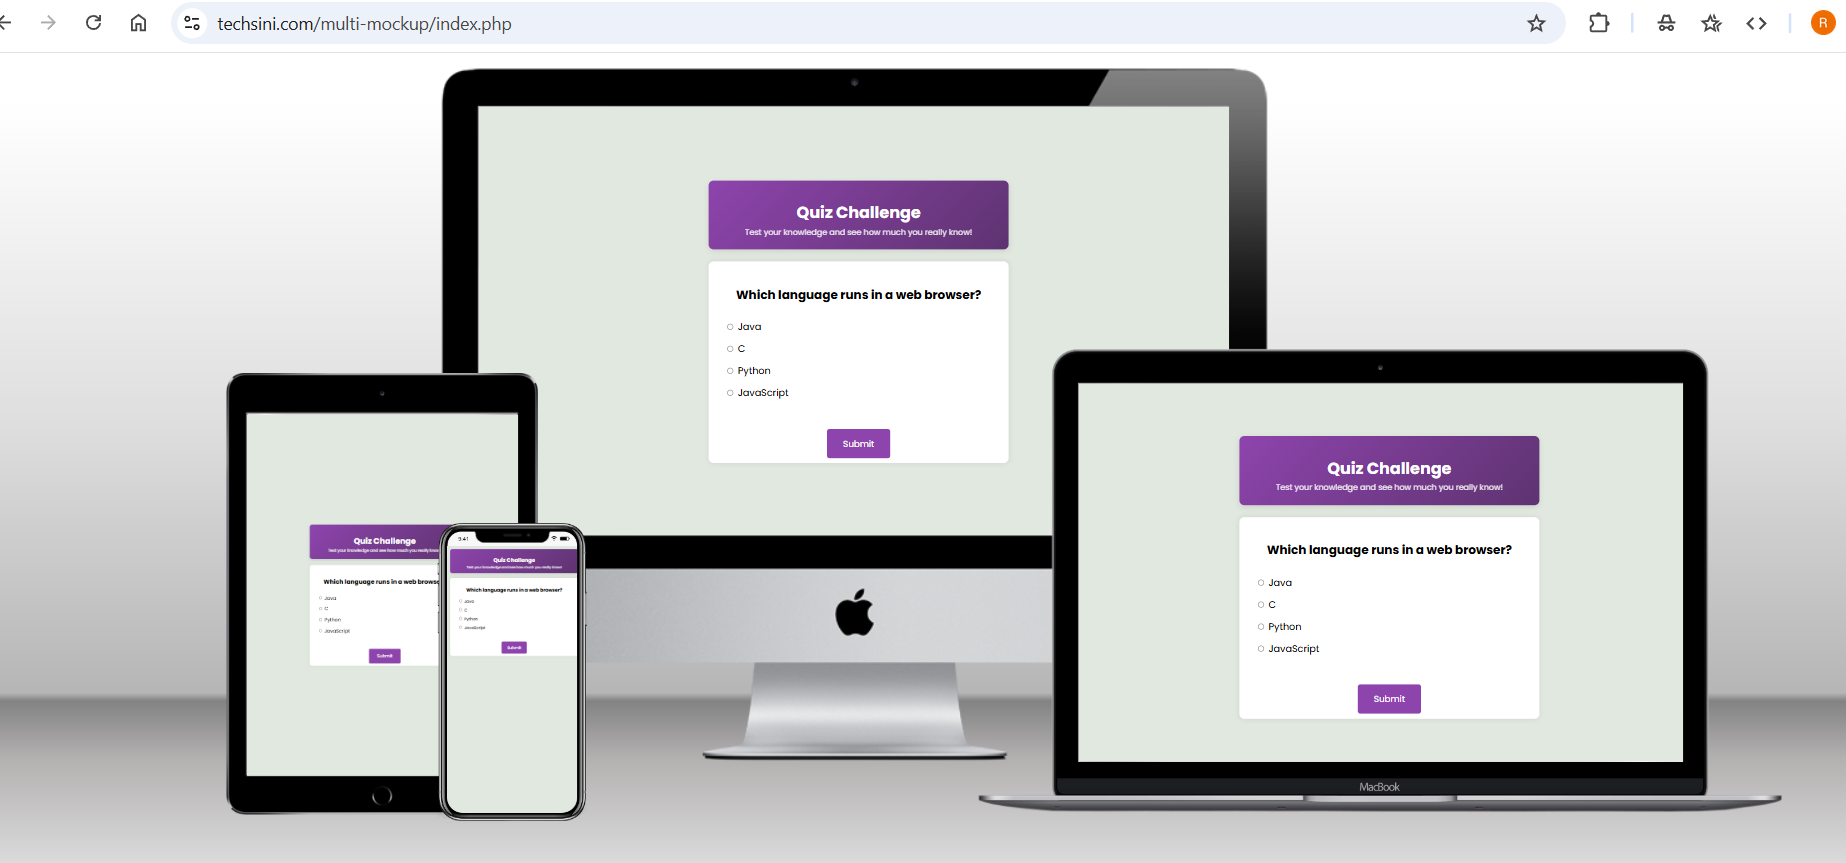
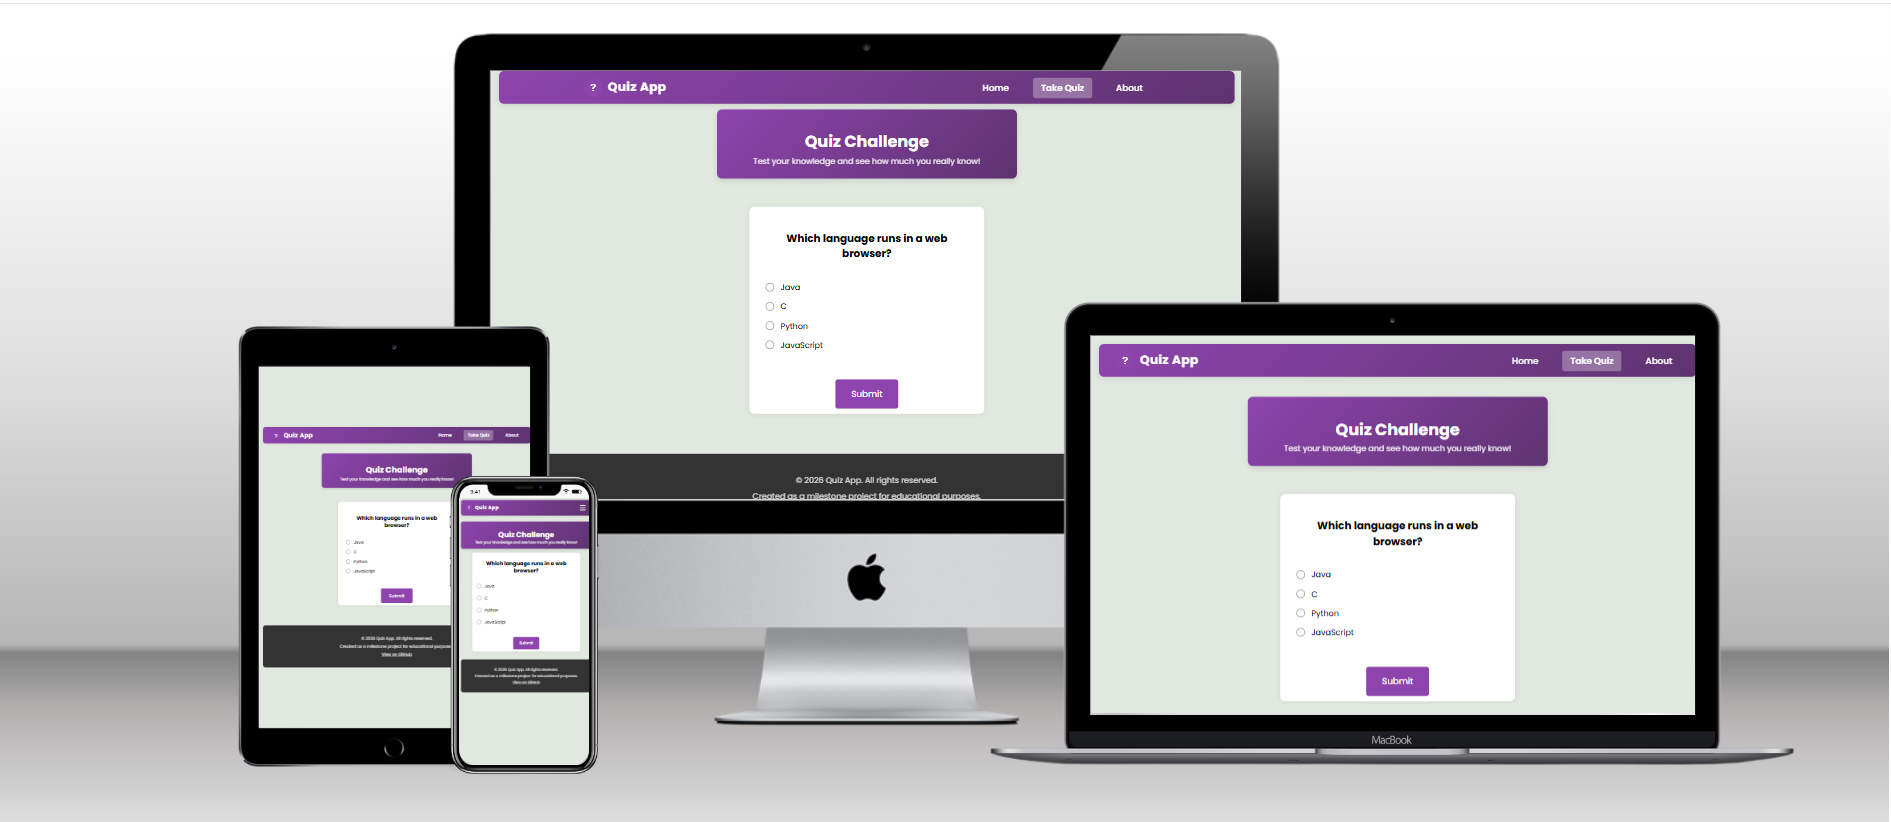
Update README.md with initial project documentation

Changed region(s): [[0.0, 0.0, 1.0, 0.9732], [0.8646, 0.0, 1.0, 0.0608]]

diff --git a/README.md b/README.md
@@ -1,6 +1,6 @@
 # Quiz App
 
-The **Quiz App** is a simple browser-based quiz built with vanilla HTML, CSS , and JavaScript. It presents a set of questions and allows users to answer them and see their performance at the end. The project focuses on clear structure, basic interactivity, and testable quiz logic.
+The **Quiz App** is an interactive, browser-based quiz application built with HTML, CSS, and JavaScript. It presents 12 web development questions and allows users to test their knowledge, receive immediate feedback, and track their progress. The project focuses on accessibility, UX best practices, and clean maintainable code.
 
 ![Mockups](/assets/docs/img/multi-device-website-generator.png)
 
@@ -10,36 +10,49 @@ Source: [Techsini Multi Device Website Mockup Generator](https://techsini.com/mu
 
 ## UX
 
+### Project Purpose
+
 The aim of this project is to create **simple, interactive quiz application** that would:
 
-- Lets users begin answering questions quickly.
-- Offers instant visual feedback after answers(forthcoming).
-- Shows users how they did at the end of the quiz (forthcoming).
-- Works on desktop, tablet, and mobile devices.
+- Lets users begin answering questions quickly without signup
+- Provide clear feedback on quiz performance
+- Work seamlessly on desktop, tablet, and mobile devices
+- Follow accessibility guidelines for all users 
+- Demonstrate clean code structure and testing practices
+
+---
 
 ### Color Scheme
 
-- #e1e8df - Page background(light, soft greenish-gray).
-- #8e44ad - Primary accent (buttons, headers, quiz highlights).
-- #5e3370 - Darker accent for hover and focus states.
-- #732d91 - Hover state for buttons (slightly brighter lift effect).
-- #ffffff - Main content background (quiz container) and text in headers.
-- White text (#ffffff) on purple header gradient for readability.
+- #e1e8df - Page background(light, soft greenish-gray)
+- #8e44ad - Primary accent (buttons, headers, quiz highlights)
+- #5e3370 - Darker accent for hover and focus states
+- #732d91 - Hover state for buttons (slightly brighter lift effect)
+- #ffffff - Main content background and text on purple
+- #333333 - Footer background
+
+### Typography
+
+**Poppins** font family was chosen for its:
+- Excellent readability at various sizes
+- Modern, clean appearance
+- Good web font support
+- Multiple weights for visual hierarchy
 
 ---
 
 ## User Stories
 
 ### New Users
-
-- As a user, I want to start the quickly so I can begin testing my knowledge.
-- As a user, I want clearly labelled questions and answers so I don't get confused.
-- As a user, I want to see my score at the end so I know how well I did.
+- As a user, I want to understand what the app does immediately - *Addressed by home page hero section*
+- As a user, I want to start the quiz quickly without signing up - *One - click access from navigation*
+- As a user, I want clearly labelled questions and answers - *Clean radio button layout*
+- As a user, I want to see my score at the end - *Final score displayed with percentage*
 
 ### Returning Users
-
-- As a user, I want to replay the quiz to improve my score.
-- As a user, I want the app to be responsive so it feels good on phone and laptop screens.
+- As a user, I want to replay the quiz to improve my score - *Reload button to try again*
+- As a user, I want the app to be responsive on all devices - *Fully responsive with mobile navigation*
+- As a user, I want to navigate easily between pages - *Consitent navigation bar on all pages* 
 
 ---
 
@@ -78,41 +91,14 @@ The aim of this project is to create **simple, interactive quiz application** th
 
  ## Features
 
- ### Question Data Structure
+ ### Current Features
 
- - Quiz questions are stored in a JavaScript object using key-value pairs.
- - Each question contains four possible answers and a defined correct option.
- - The structure makes it easy to add, remove, or update questions.
-
- ### Dynamic Question Rendering
-
- - Questions and answer options are injected into the DOM using JavaScript.
- - The same HTML structure is reused for each question to keep the markup clean.
-
- ### Answer Selection
-
- - Users select answers using radio buttons.
- - Only one answer can be selected per question.
-
- ### Score Logic
-
- - The application tracks the user's score as they progress through the quiz.
- - The final score is calculated based on correct answers.
-
- ### Button Interactions
-
- - A submit button is used to confirm the selected answer.
- - Visual hover and focus states provide clear feedback for interaction.
-
- ### Responsive Layout
-
- - The layout adapts to smaller screens using CSS media queries.
- - The quiz remains usable on mobile, table, and desktop devices.
-
- ### Unit Testing with Jest
-
- - Quiz data is tested to ensure each question includes valid answers.
- - Tests confirm that correct answers match one of the available options.
+ #### ✅ Multi-Page Navigation
+ - **Home page** - Introduction , features, and value proposition
+ - **Quiz page** - The interactive quiz with 12 questions
+ - **About page** - Project documentation and UX process
+ - Consistent navigation with active page highlighting
+ - Mobile-responsive hamburger menu with smooth slide animation
 
  ---
 
